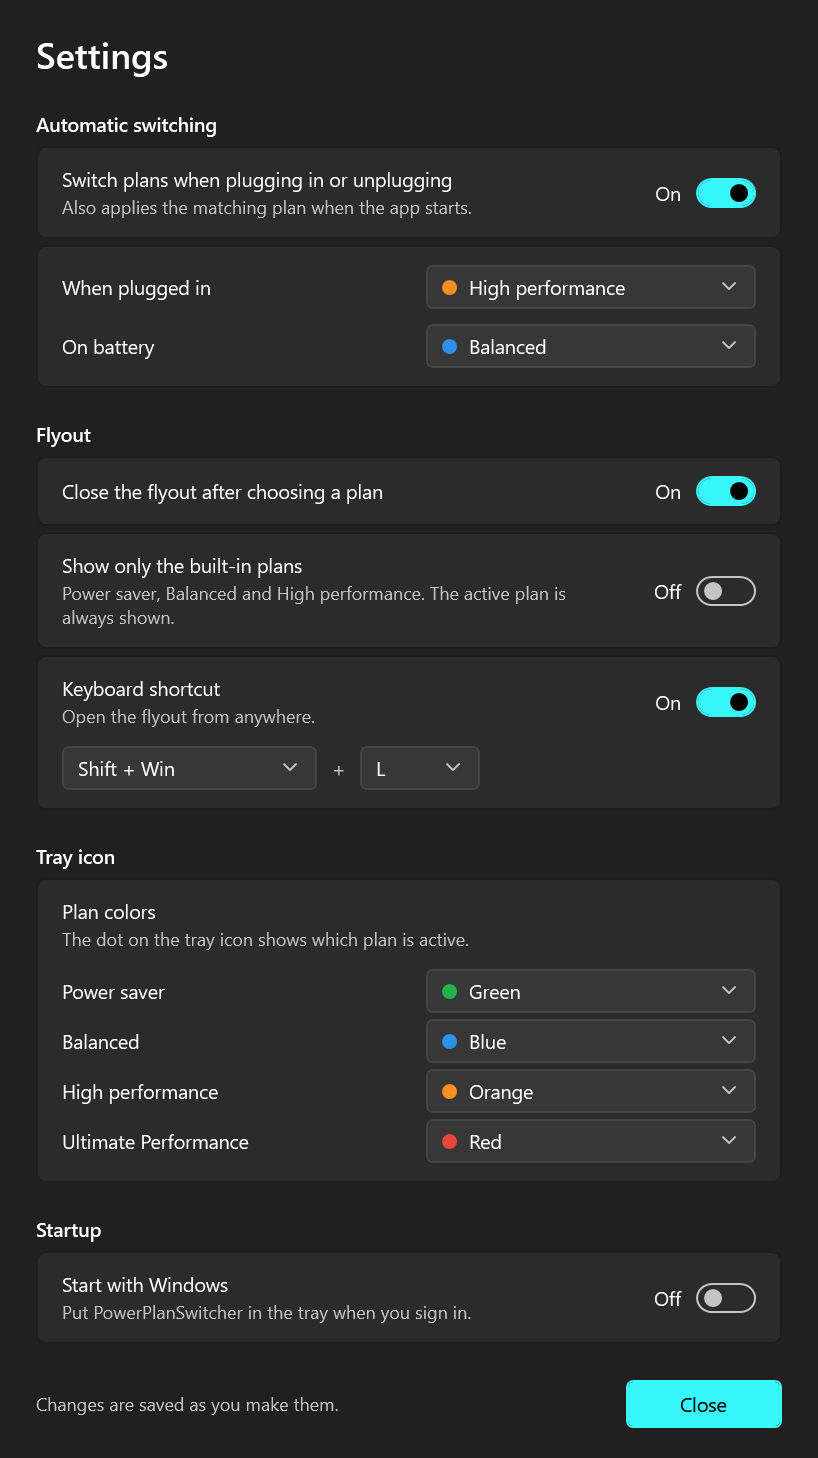
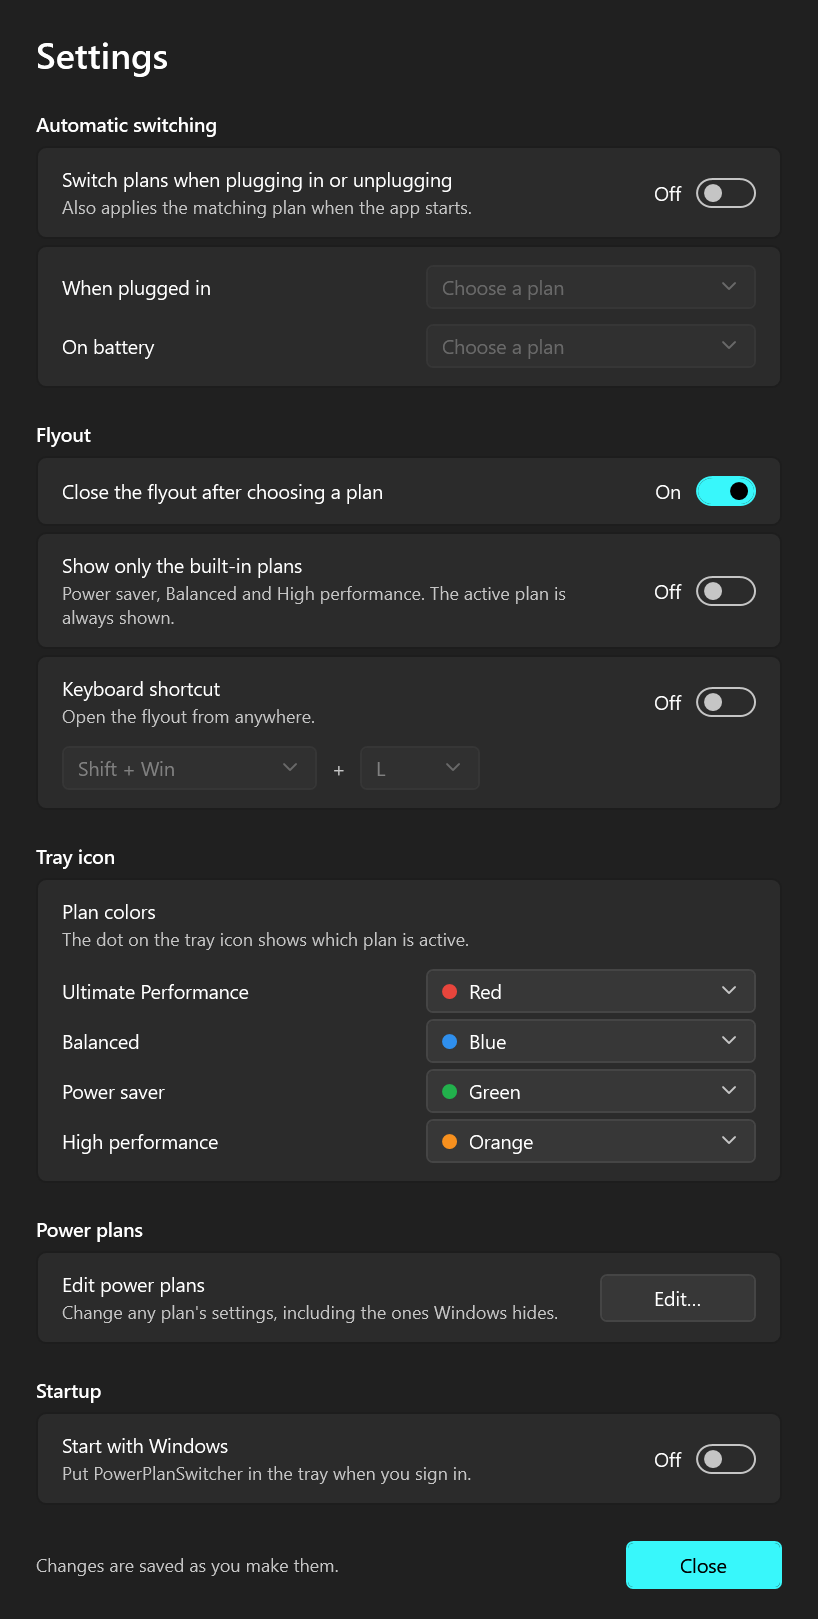
Show the editor and Compare in the README, with fresh screenshots

diff --git a/README.md b/README.md
@@ -21,6 +21,9 @@ The tray icon carries a coloured dot for the active plan, so you can tell at a g
 - **Quick switching** — click the tray icon for a Windows-style flyout of your power plans. It works from the keyboard too, and can be limited to the built-in plans.
 - **The active plan at a glance** — a coloured dot on the tray icon, one colour per plan. Pick each plan's colour in Settings.
 - **Automatic switching** — choose one plan for when you're plugged in and another for battery.
+- **Edit any plan** — every setting, including the ones Windows hides, with plugged-in and battery values side by side. Search, see what's changed from the defaults, and reset it.
+- **Compare plans** — see only the settings that differ between two plans, and copy a setting across.
+- **Manage plans** — duplicate, rename and delete plans, with a backup of each plan before its first change.
 - **Keyboard shortcut** — open the flyout from anywhere (Shift+Win+L by default, configurable).
 - **Fits in** — follows the Windows light, dark and high-contrast themes and your accent colour, switching live.
 - **Notices outside changes** — switching plans in Control Panel or with `powercfg` updates the tray straight away.
@@ -47,12 +50,41 @@ Right-click the tray icon → **Settings…**. Changes apply and save immediatel
 <p>
   <picture>
     <source media="(prefers-color-scheme: dark)" srcset="ReadmeAssets/settings-dark.png">
-    <img src="ReadmeAssets/settings-light.png" width="547" alt="The Settings window: automatic switching, flyout options, keyboard shortcut, plan colours and startup">
+    <img src="ReadmeAssets/settings-light.png" width="547" alt="The Settings window: automatic switching, flyout options, keyboard shortcut, plan colours, power plans and startup">
   </picture>
   &nbsp;
   <picture>
     <source media="(prefers-color-scheme: dark)" srcset="ReadmeAssets/about-dark.png">
     <img src="ReadmeAssets/about-light.png" width="427" alt="The About window: version, active plan, power source, update status and credits">
+  </picture>
+</p>
+
+## Edit power plans
+
+Right-click the tray icon → **Edit power plans…**, or **Edit…** in Settings. Pick a plan on the left to see all its settings, grouped like Control Panel's advanced power options but with nothing hidden. Plugged-in and battery values sit side by side, tinted in the plan's colour.
+
+<p>
+  <picture>
+    <source media="(prefers-color-scheme: dark)" srcset="ReadmeAssets/editor-dark.png">
+    <img src="ReadmeAssets/editor-light.png" width="840" alt="The power plan editor showing the Balanced plan's display settings, with plugged-in and battery values side by side and hidden settings marked Hidden">
+  </picture>
+</p>
+
+- **Search** by name or description. **Show hidden settings** adds the ones Windows keeps out of Control Panel, which are usually most of them.
+- **Changed from defaults** shows only what's been changed, each with its default underneath and a **Reset** button.
+- Changes save as you make them and take effect straight away on the active plan. **Undo** reverses them until you close the window.
+- Each plan is backed up before its first change (to `%LOCALAPPDATA%\Petrroll\PowerSwitcher\Backups`). **Restore** puts a plan back as it was, and **Restore a deleted plan…** brings back one you've deleted.
+
+Windows won't let two settings be changed without administrator rights: "Require a password on wakeup" and one processor core parking setting. The editor says so if you try.
+
+### Compare plans
+
+Right-click the tray icon → **Compare plans…** to see only the settings that differ between two plans. **Copy →** makes the right-hand plan match the left one for that setting, and **← Copy** does the opposite.
+
+<p>
+  <picture>
+    <source media="(prefers-color-scheme: dark)" srcset="ReadmeAssets/compare-dark.png">
+    <img src="ReadmeAssets/compare-light.png" width="840" alt="Compare plans showing Ultimate Performance and Balanced side by side, each in its own colour, with copy buttons between them">
   </picture>
 </p>
 
